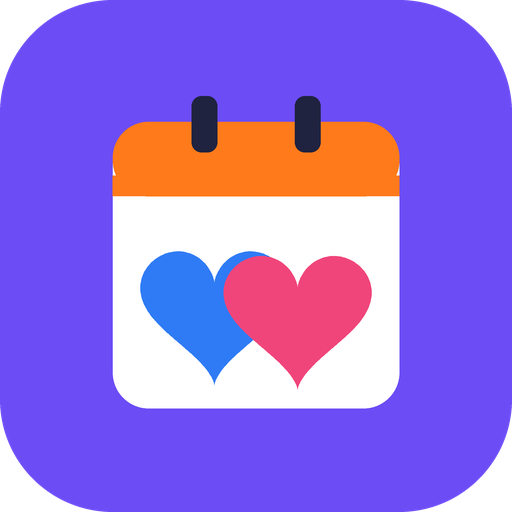
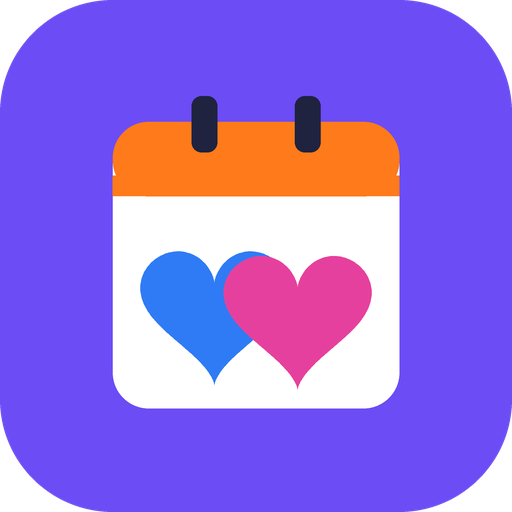
Sofie roze
Claude-Session: https://claude.ai/code/session_01B8dKZPeLgWziahSXCR8xoq

Changed region(s): [[0.4375, 0.5, 0.75, 0.75]]

diff --git a/styles.css b/styles.css
@@ -3,7 +3,7 @@
   --bg:#F2F4FF; --surface:#FFFFFF; --surface-2:#E8EBFF; --ink:#1F2340; --muted:#646A93; --line:#D9DDF5;
   --accent:#6C4CF5; --accent-ink:#FFFFFF;
   --karel:#2F7BF5; --karel-soft:#DDE9FF;
-  --sofie:#F0457A; --sofie-soft:#FFE1EA;
+  --sofie:#E6409E; --sofie-soft:#FDE0F1;
   --samen:#FF7A1A; --samen-soft:#FFE6D3;
   --ok:#14995B; --no:#D33B3B;
   --shadow:0 6px 18px rgba(60,50,160,.12);
@@ -13,12 +13,12 @@
 @media (prefers-color-scheme: dark){:root:not([data-theme="light"]){
   --bg:#14162B; --surface:#1E2142; --surface-2:#282C55; --ink:#EEF0FF; --muted:#A2A7D2; --line:#343968;
   --accent:#8F75FF; --accent-ink:#FFFFFF;
-  --karel:#6EA6FF; --karel-soft:#1A2D55; --sofie:#FF6E99; --sofie-soft:#4A1C2C; --samen:#FF9A4D; --samen-soft:#4A2810;
+  --karel:#6EA6FF; --karel-soft:#1A2D55; --sofie:#FF7CC8; --sofie-soft:#4A1A3A; --samen:#FF9A4D; --samen-soft:#4A2810;
   --ok:#3DD18A; --no:#FF6B6B; --shadow:0 6px 18px rgba(0,0,0,.35); color-scheme:dark}}
 :root[data-theme="dark"]{
   --bg:#14162B; --surface:#1E2142; --surface-2:#282C55; --ink:#EEF0FF; --muted:#A2A7D2; --line:#343968;
   --accent:#8F75FF; --accent-ink:#FFFFFF;
-  --karel:#6EA6FF; --karel-soft:#1A2D55; --sofie:#FF6E99; --sofie-soft:#4A1C2C; --samen:#FF9A4D; --samen-soft:#4A2810;
+  --karel:#6EA6FF; --karel-soft:#1A2D55; --sofie:#FF7CC8; --sofie-soft:#4A1A3A; --samen:#FF9A4D; --samen-soft:#4A2810;
   --ok:#3DD18A; --no:#FF6B6B; --shadow:0 6px 18px rgba(0,0,0,.35); color-scheme:dark}
 
 *{box-sizing:border-box}

diff --git a/sw.js b/sw.js
@@ -1,5 +1,5 @@
 // Service worker: offline shell + push notifications
-const CACHE = "ks-agenda-v4";
+const CACHE = "ks-agenda-v5";
 const SHELL = ["./", "index.html", "styles.css", "app.js", "manifest.webmanifest", "icons/icon-192.png", "icons/icon-512.png"];
 
 self.addEventListener("install", (e) => {
